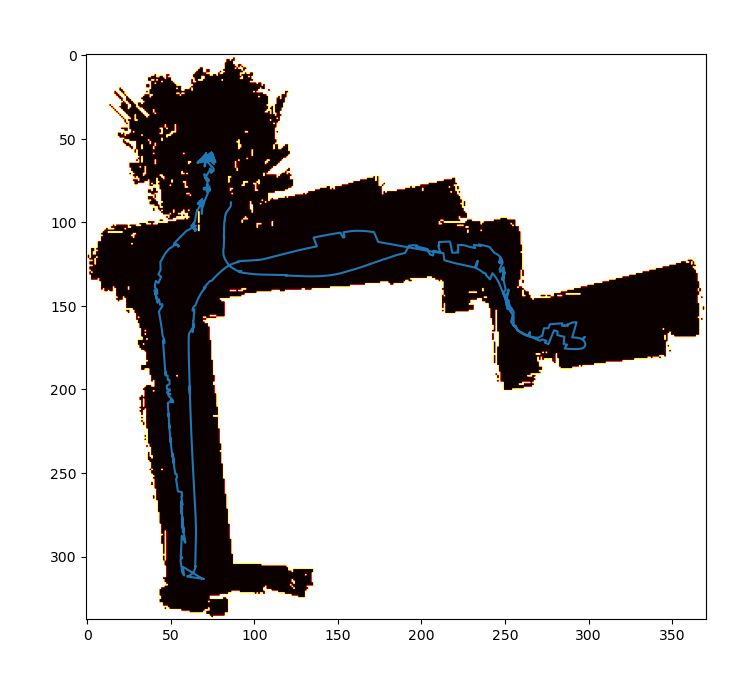
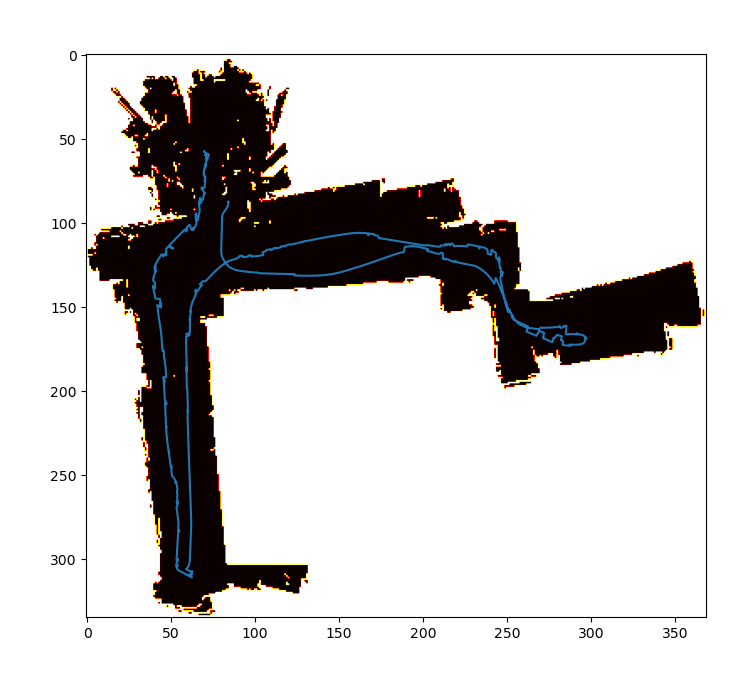
10 and 20 particles

diff --git a/code/Config.py b/code/Config.py
@@ -11,7 +11,7 @@ outer_width = 0.47625 # the width between the outer surface of two parallel whee
 inner_width = 0.31115 # the width between the innner surface of two parallel wheels
 L = (outer_width + inner_width) / 2 # the length of axle
 
-N = 10 # the number of the particles
+N = 20 # the number of the particles
 Neff_threshold = 0.2 * N
 
 # the standard deviation of the norm distribution for velocity and angular velocity
